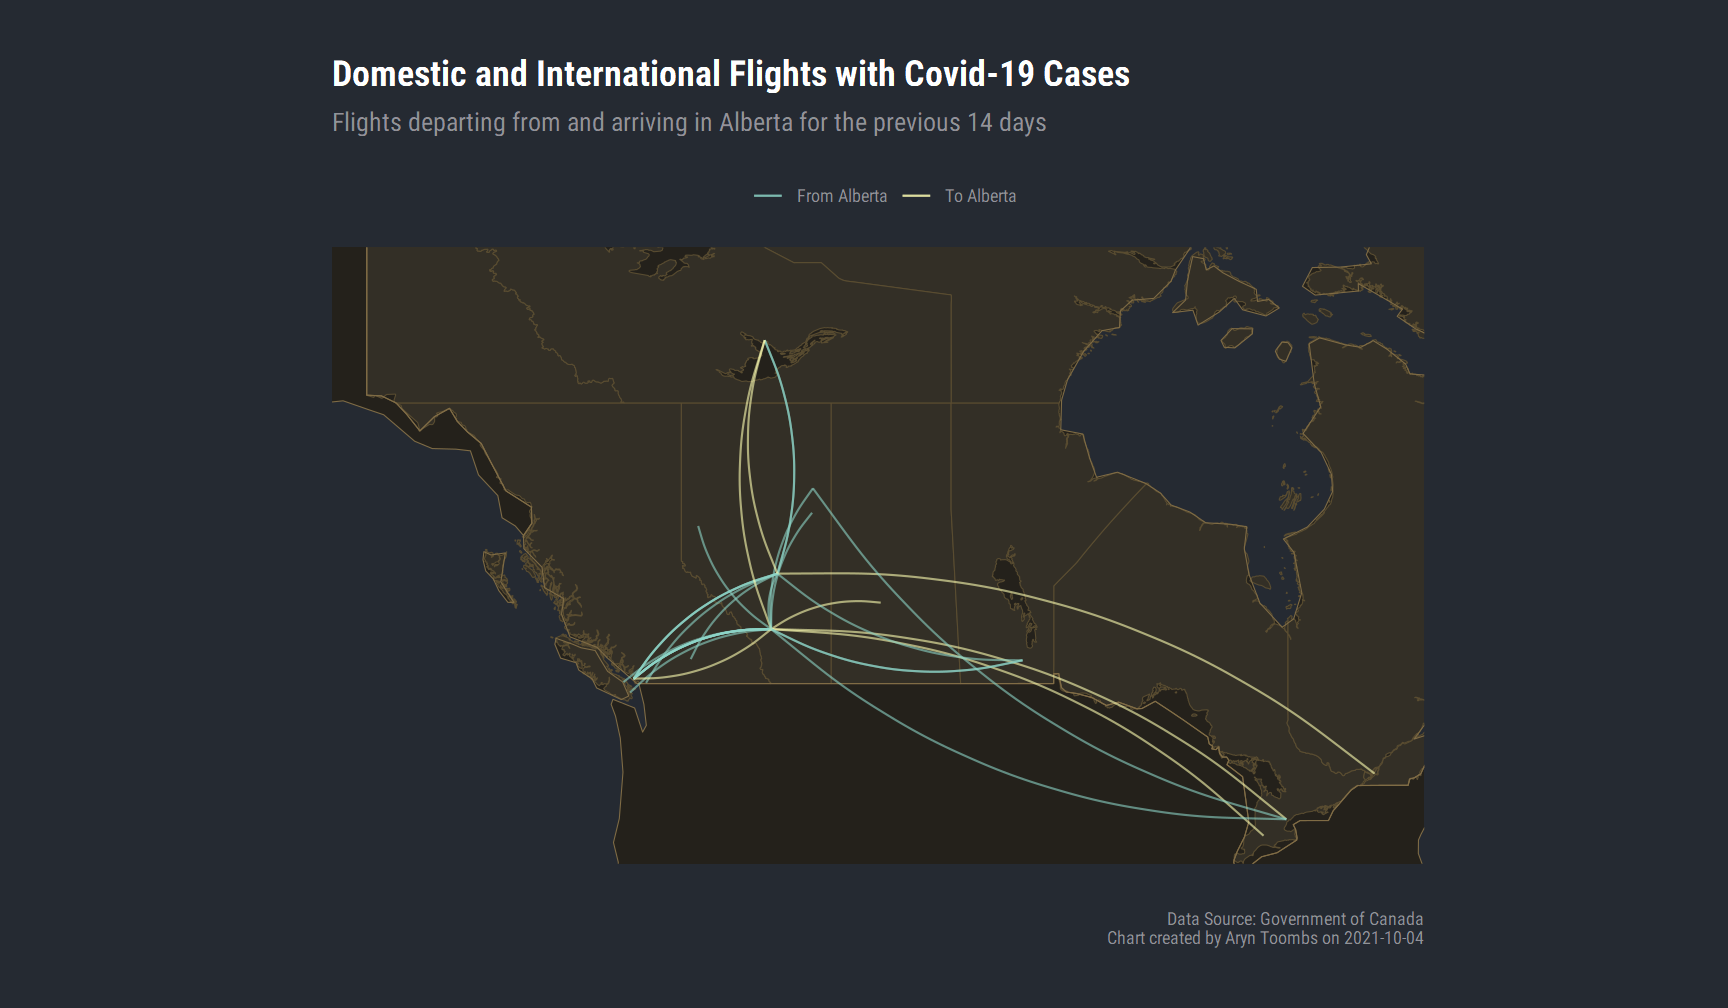
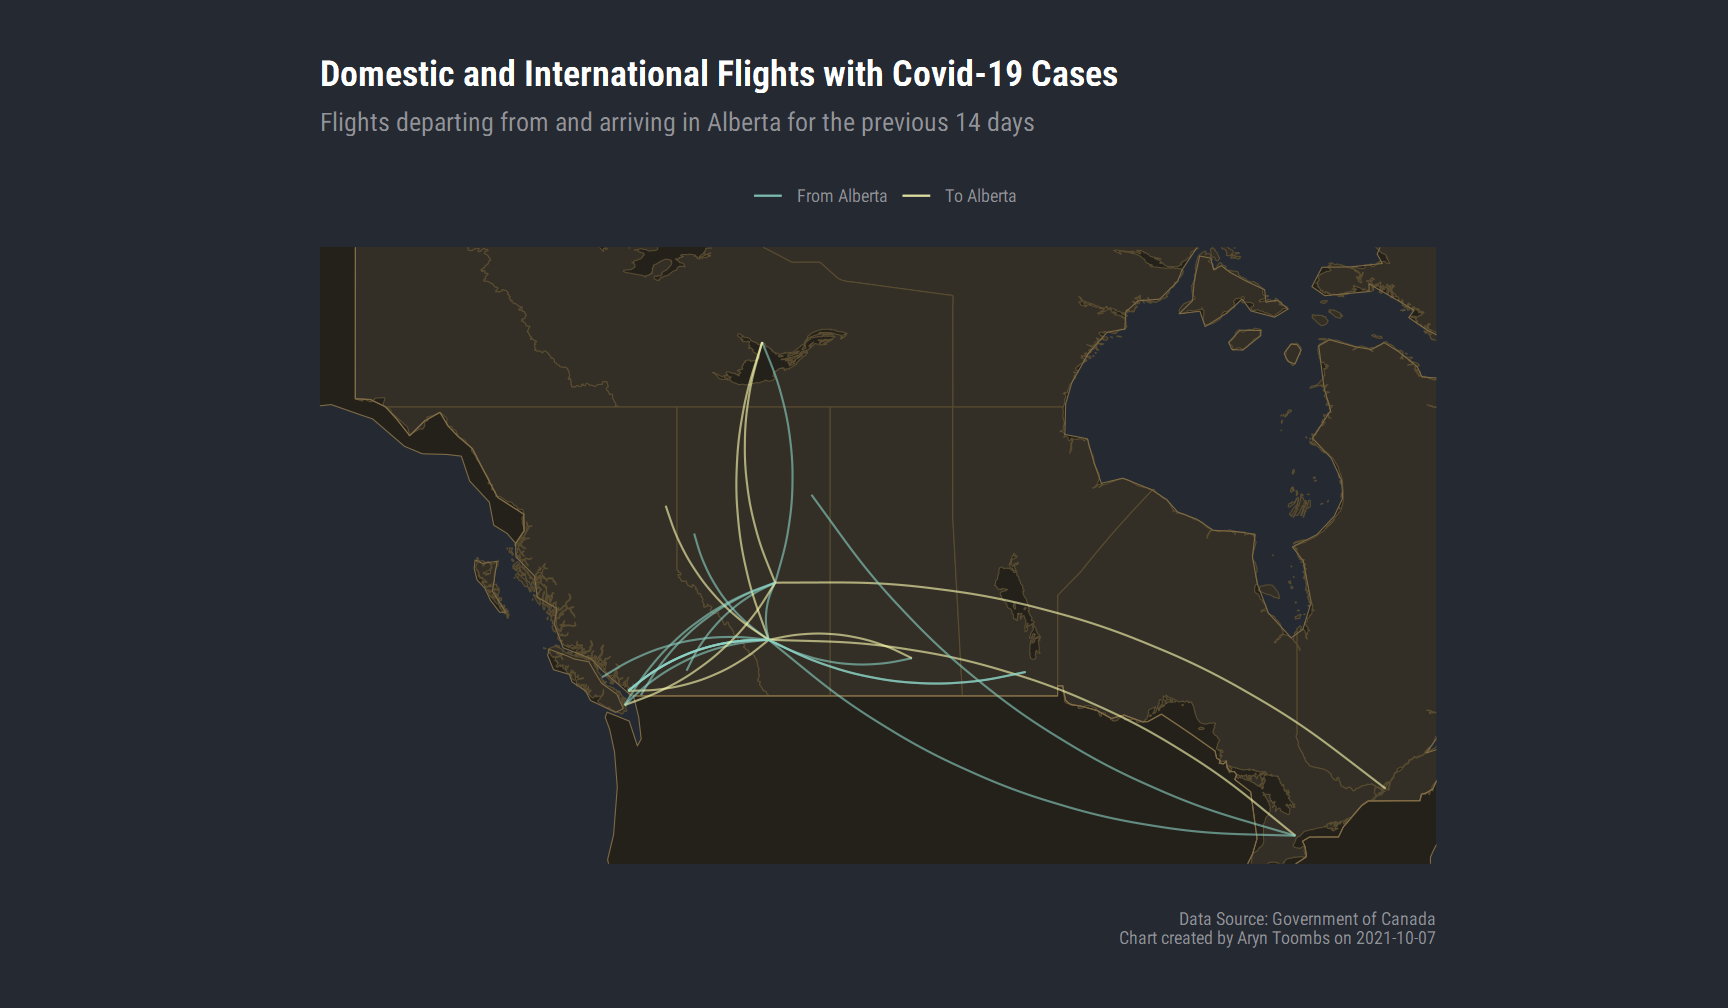
web

diff --git a/index.html b/index.html
@@ -296,7 +296,7 @@
         Domestic Flights to Alberta
       </div>
       <div class="row box-bottom justify-content-center">
-        <h4>7</h4>
+        <h4>8</h4>
       </div>
     </div>
 
@@ -305,7 +305,7 @@
         Domestic Flights from Alberta
       </div>
       <div class="row box-bottom justify-content-center">
-        <h4>30</h4>
+        <h4>22</h4>
       </div>
     </div>
 
@@ -323,7 +323,7 @@
         International Flights from Alberta
       </div>
       <div class="row box-bottom justify-content-center">
-        <h4>1</h4>
+        <h4></h4>
       </div>
     </div>
 
